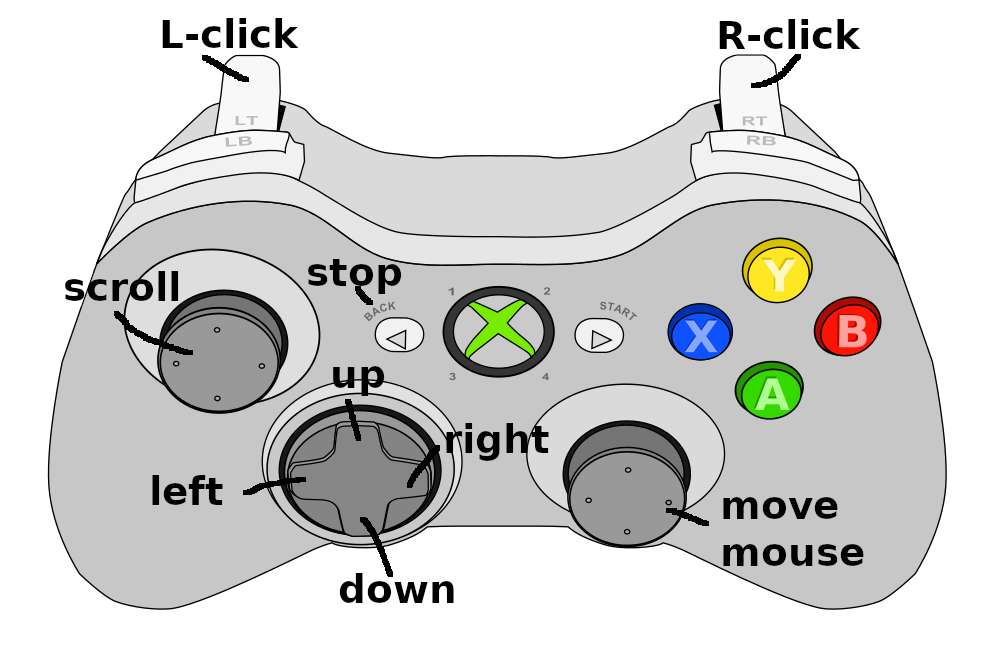
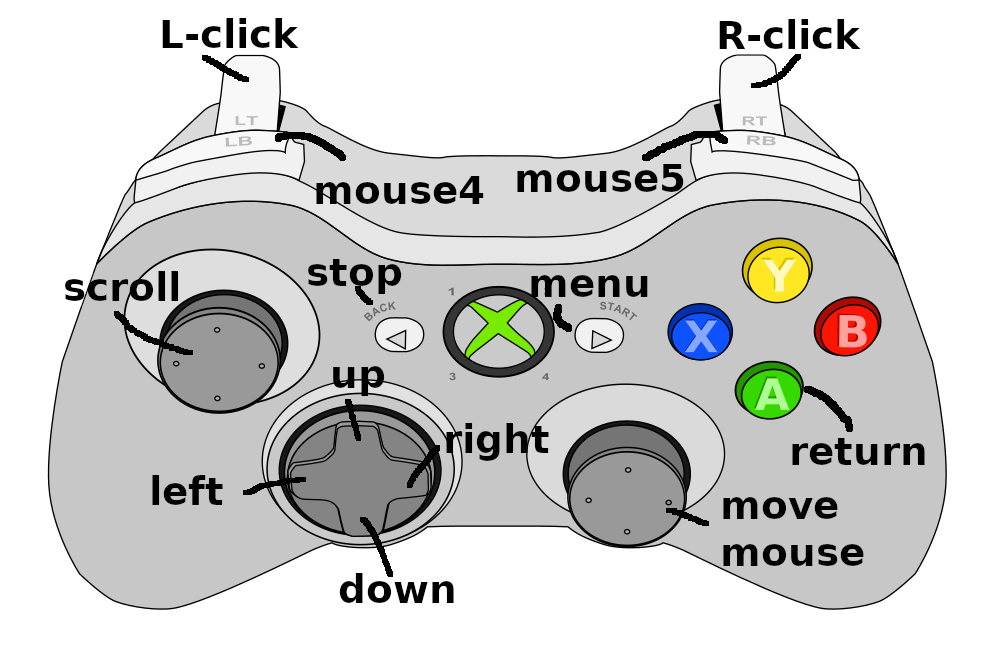
update bindings and remove redundand code

Changed region(s): [[0.279, 0.1875, 0.744, 0.3125], [0.775, 0.5625, 0.93, 0.6875], [0.527, 0.4062, 0.651, 0.5]]

diff --git a/main.rs b/main.rs
@@ -20,8 +20,6 @@ struct State {
     ry: f64,
     z: i16,
     rz: i16,
-    tr: bool,
-    tl: bool,
 }
 
 fn get_gamepad_handler() -> String {
@@ -62,8 +60,6 @@ fn main() -> std::io::Result<()> {
         ry: 0.,
         z: 0,
         rz: 0,
-        tr: false,
-        tl: false,
     }));
 
 
@@ -140,15 +136,12 @@ fn main() -> std::io::Result<()> {
                 310 => { // BTN_TL
                     if buf[20] == 1 {
                         enigo.mouse_click(MouseButton::Back);
-                        //enigo.mouse_click(MouseButton::ScrollLeft);
                     }
                 }
                 311 => { // BTN_TR
                     if buf[20] == 1 {
                         enigo.mouse_click(MouseButton::Foreward);
-                        //enigo.mouse_click(MouseButton::ScrollLeft);
                     }
-                    state.tr = buf[20] == 1; // 1 or 0
                 }   
                 314 => { // BTN_SELECT
                     state.running = false;
